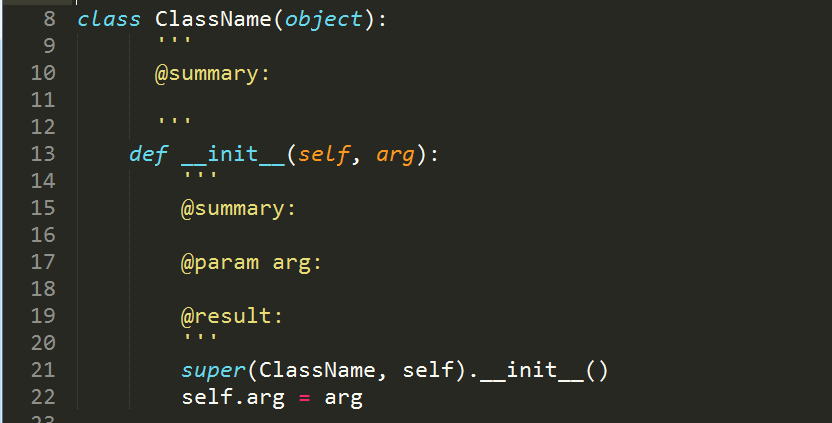
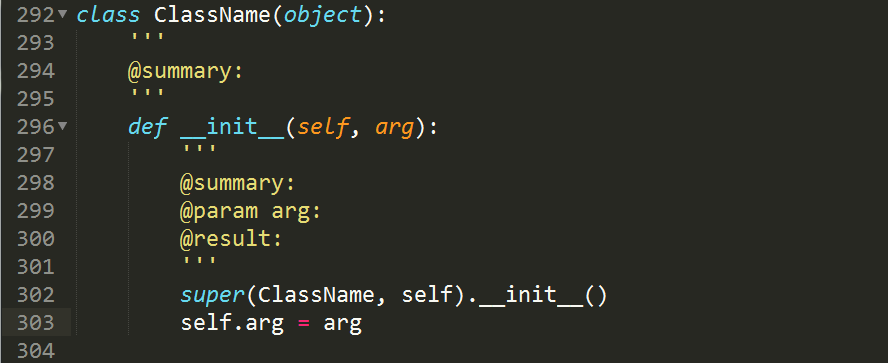
fix bugs when generate class docstring
- fix bugs when generate class docstring
 - remove unneeded line feed in docstring

diff --git a/docstring.py b/docstring.py
@@ -40,14 +40,14 @@ def construct_docstring(declaration, indent = 0):
         lines = []
         lines.append("'''\n")
         lines.append("@summary: \n")
-        lines.append("\n")
+        # lines.append("\n")
         if typename == "class":
             pass
         elif typename == "def":
             if len(params):
                 for param in params:
                     lines.append("@param %s:\n"%(param))
-                lines.append("\n")
+                # lines.append("\n")
             lines.append("@result: \n")
         lines.append("'''\n")
 
@@ -253,6 +253,8 @@ class DocstringCommand(sublime_plugin.TextCommand):
                     print "not begin of the file"
 
                 tab_size = self.view.settings().get("tab_size", 4)
+                # if tab_size < 4:
+                #     tab_size = 4
                 print "tab_size = ", tab_size
                 flag, declaration_region = get_declaration(self.view, line.begin())
                 print "declaration_region begin = %s, end = %s"%(declaration_region.begin(),
@@ -274,9 +276,12 @@ class DocstringCommand(sublime_plugin.TextCommand):
                                     indent += tab_size
                                 else:
                                     indent += 1
+                        # calculate the real indent
+                        if indent % tab_size :
+                            indent = (indent / tab_size) * tab_size
                         print "indent = %s"%(indent)
                         docstring = construct_docstring(result, indent = indent)
-                        print "docstring is: %s" %(docstring)
+                        print "docstring is: \n%s" %(docstring)
                         # insert class/def docstring
                         # print "row = %s, col = %s"%(self.view.rowcol(declaration_region.end()))
                         self.view.insert(edit, declaration_region.end() + 2, docstring)
